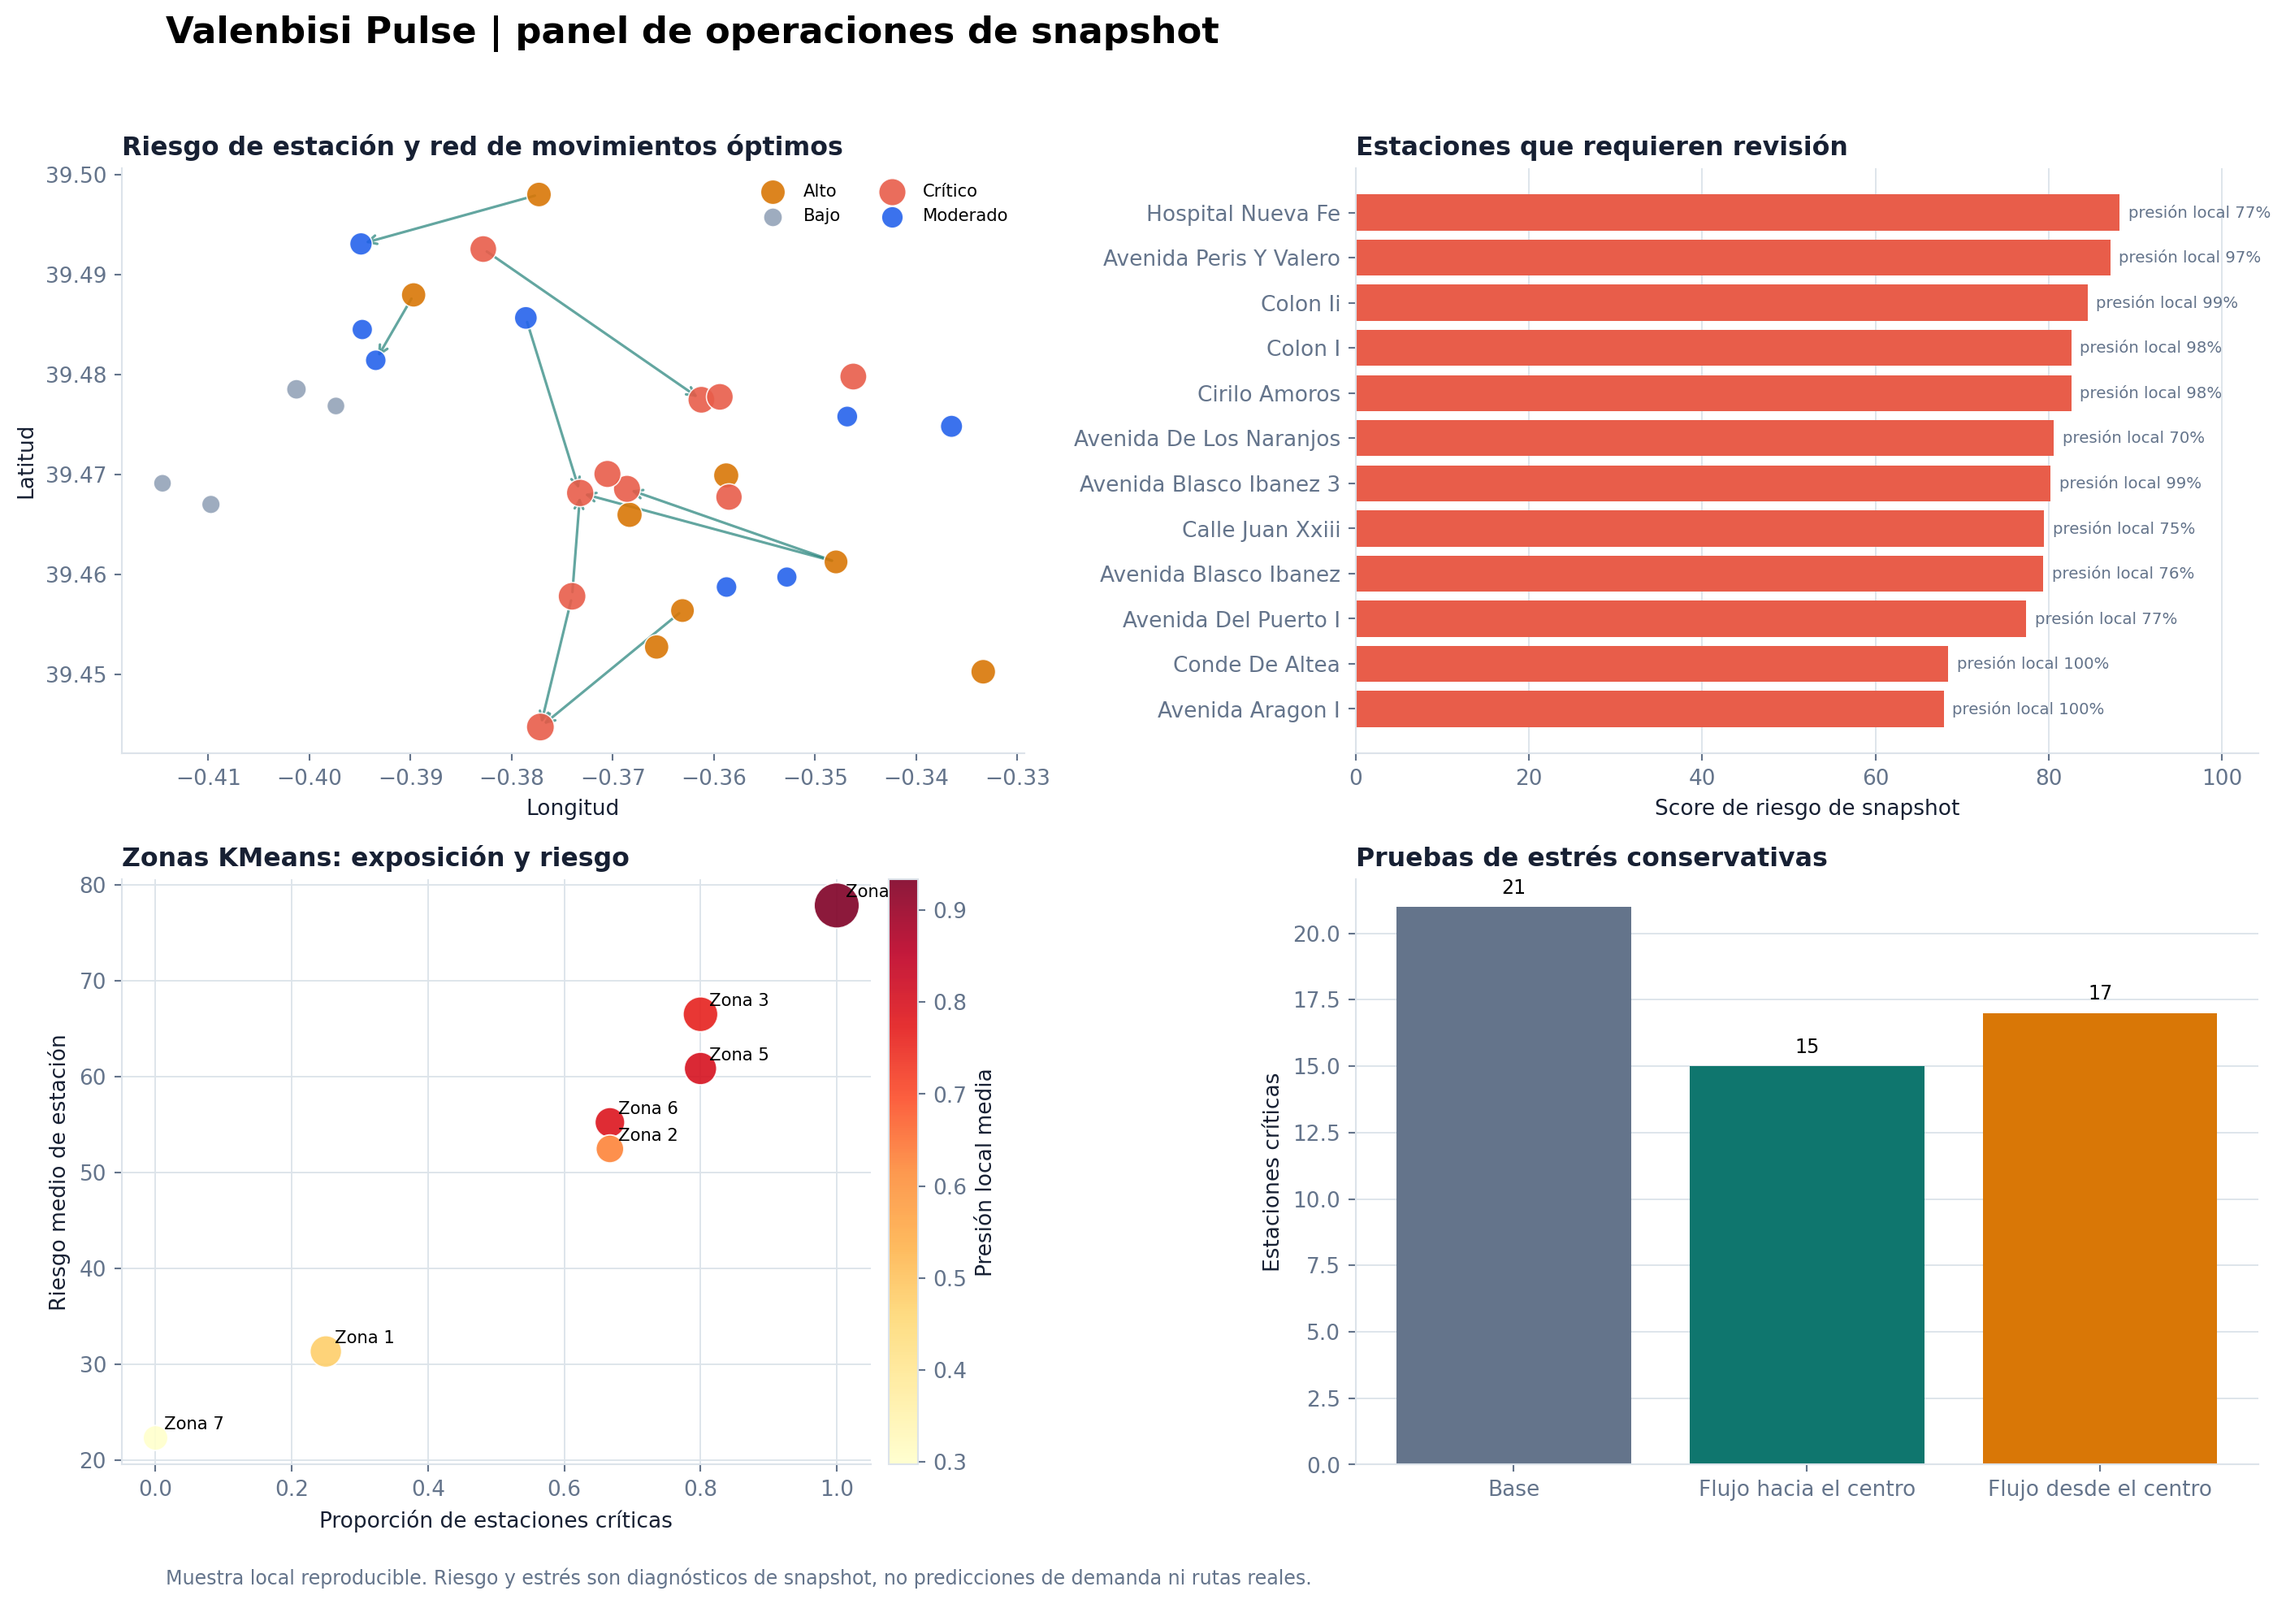
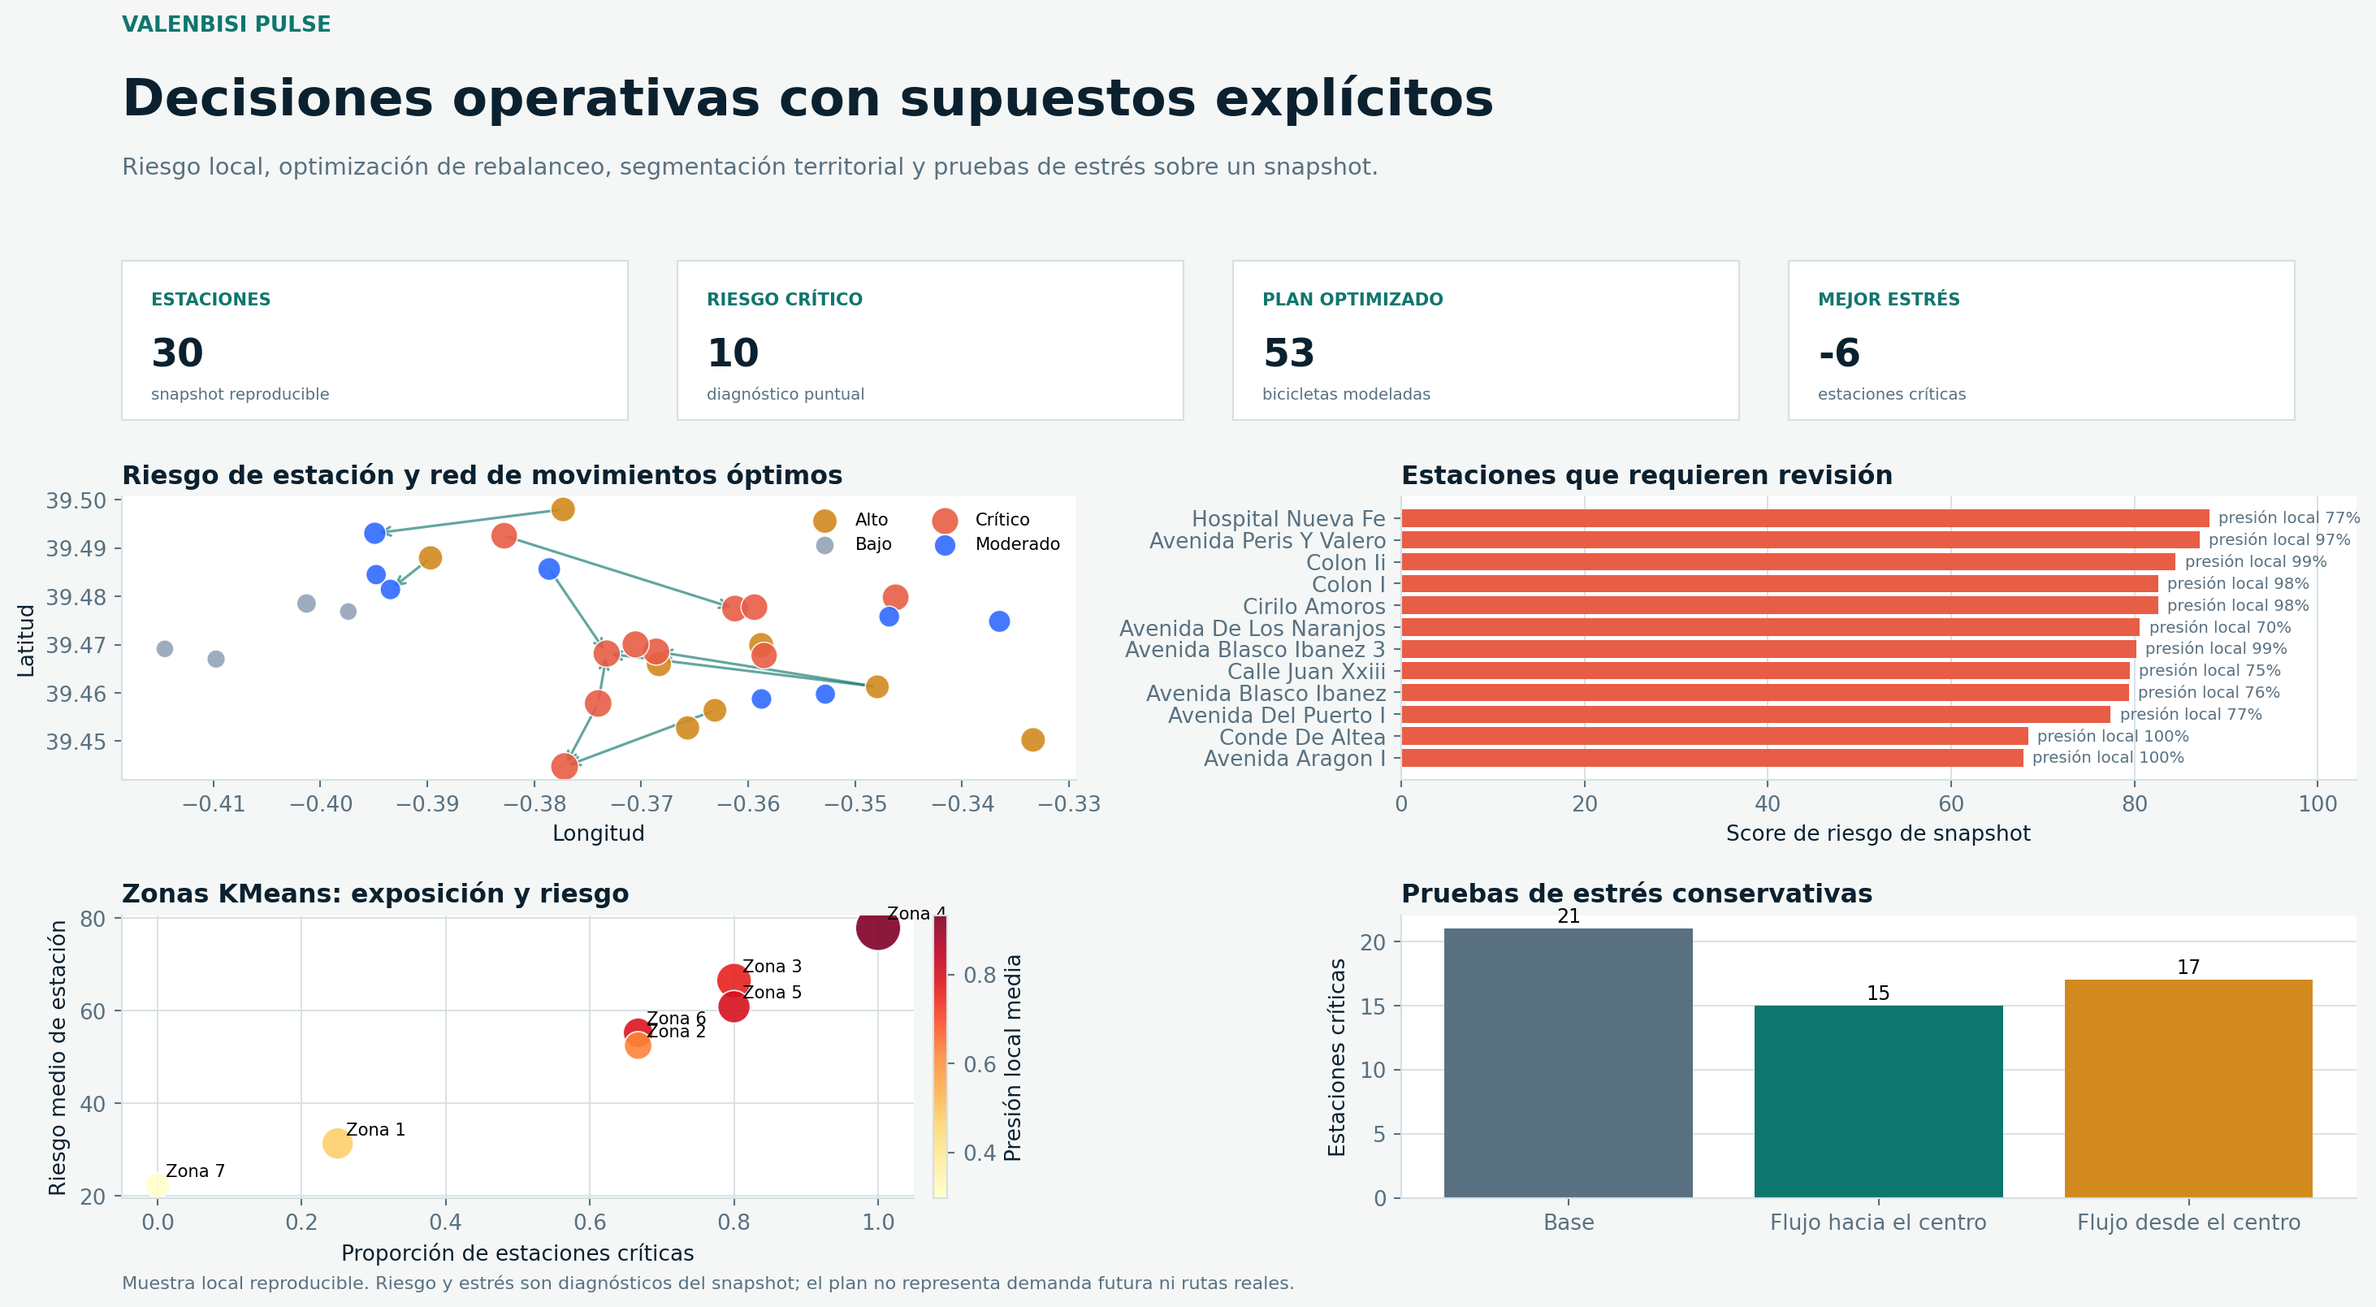
Upgrade mobility operations dashboard

diff --git a/src/reporting.py b/src/reporting.py
@@ -7,14 +7,16 @@ from pathlib import Path
 import matplotlib as mpl
 import matplotlib.pyplot as plt
 import pandas as pd
+from matplotlib.patches import Rectangle
 
-INK = "#172033"
-MUTED = "#64748B"
-GRID = "#DCE3EA"
+INK = "#0B2130"
+MUTED = "#597181"
+GRID = "#D6E0E5"
 TEAL = "#0F766E"
-CORAL = "#E85D4A"
-GOLD = "#D97706"
-BLUE = "#2563EB"
+CORAL = "#E85D45"
+GOLD = "#D28A1E"
+BLUE = "#2F6BFF"
+PAPER = "#F4F7F6"
 
 RISK_COLORS = {
     "bajo": "#94A3B8",
@@ -37,7 +39,7 @@ def _apply_style() -> None:
             "axes.edgecolor": GRID,
             "axes.spines.top": False,
             "axes.spines.right": False,
-            "figure.facecolor": "white",
+            "figure.facecolor": PAPER,
             "axes.facecolor": "white",
         }
     )
@@ -45,7 +47,7 @@ def _apply_style() -> None:
 
 def _save(fig: plt.Figure, directory: Path, filename: str) -> None:
     directory.mkdir(parents=True, exist_ok=True)
-    fig.savefig(directory / filename, dpi=190, bbox_inches="tight", facecolor="white")
+    fig.savefig(directory / filename, dpi=190, bbox_inches="tight", facecolor=fig.get_facecolor())
     plt.close(fig)
 
 
@@ -73,9 +75,23 @@ def plot_operations_dashboard(
     figure_dir: Path,
 ) -> None:
     _apply_style()
-    fig, axes = plt.subplots(2, 2, figsize=(15, 10.5))
+    fig = plt.figure(figsize=(16, 9), dpi=170, facecolor=PAPER)
+    grid = fig.add_gridspec(
+        2,
+        2,
+        left=0.065,
+        right=0.97,
+        top=0.61,
+        bottom=0.105,
+        hspace=0.48,
+        wspace=0.34,
+    )
+    axes = [
+        [fig.add_subplot(grid[0, 0]), fig.add_subplot(grid[0, 1])],
+        [fig.add_subplot(grid[1, 0]), fig.add_subplot(grid[1, 1])],
+    ]
 
-    ax = axes[0, 0]
+    ax = axes[0][0]
     _draw_plan_lines(ax, stations, plan)
     for risk_band, frame in stations.groupby("risk_band", observed=True):
         ax.scatter(
@@ -94,7 +110,7 @@ def plot_operations_dashboard(
     ax.set_ylabel("Latitud")
     ax.legend(frameon=False, ncol=2, fontsize=8)
 
-    ax = axes[0, 1]
+    ax = axes[0][1]
     top = stations.nlargest(12, "station_risk_score").sort_values("station_risk_score")
     bars = ax.barh(top["name"], top["station_risk_score"], color=CORAL)
     for bar, pressure in zip(bars, top["local_pressure"], strict=True):
@@ -112,7 +128,7 @@ def plot_operations_dashboard(
     ax.grid(axis="x", color=GRID, linewidth=0.7)
     ax.set_axisbelow(True)
 
-    ax = axes[1, 0]
+    ax = axes[1][0]
     scatter = ax.scatter(
         zones["critical_share"],
         zones["mean_station_risk"],
@@ -139,7 +155,7 @@ def plot_operations_dashboard(
     ax.grid(color=GRID, linewidth=0.7)
     ax.set_axisbelow(True)
 
-    ax = axes[1, 1]
+    ax = axes[1][1]
     display = stress_scenarios.copy()
     labels = ["Base", *display["scenario"].tolist()]
     critical_values = [
@@ -155,24 +171,63 @@ def plot_operations_dashboard(
     ax.grid(axis="y", color=GRID, linewidth=0.7)
     ax.set_axisbelow(True)
 
-    fig.suptitle(
-        "Valenbisi Pulse | panel de operaciones de snapshot",
-        x=0.075,
-        ha="left",
-        fontsize=17,
+    critical_count = int(stations["risk_band"].eq("crítico").sum())
+    bikes_to_move = int(plan["bikes_to_move"].sum()) if not plan.empty else 0
+    baseline_critical = int(display["baseline_critical_stations"].iloc[0])
+    best_critical = int(display["scenario_critical_stations"].min())
+    kpis = [
+        ("ESTACIONES", f"{len(stations)}", "snapshot reproducible"),
+        ("RIESGO CRÍTICO", f"{critical_count}", "diagnóstico puntual"),
+        ("PLAN OPTIMIZADO", f"{bikes_to_move}", "bicicletas modeladas"),
+        ("MEJOR ESTRÉS", f"-{baseline_critical - best_critical}", "estaciones críticas"),
+    ]
+    card_width = 0.205
+    for index, (label, value, note) in enumerate(kpis):
+        left = 0.065 + index * 0.225
+        fig.patches.append(
+            Rectangle(
+                (left, 0.665),
+                card_width,
+                0.115,
+                transform=fig.transFigure,
+                facecolor="white",
+                edgecolor=GRID,
+                linewidth=0.8,
+            )
+        )
+        fig.text(left + 0.012, 0.748, label, color=TEAL, fontsize=8, weight="bold")
+        fig.text(left + 0.012, 0.704, value, color=INK, fontsize=18, weight="bold")
+        fig.text(left + 0.012, 0.68, note, color=MUTED, fontsize=7.5)
+
+    fig.text(0.065, 0.945, "VALENBISI PULSE", color=TEAL, fontsize=10, weight="bold")
+    fig.text(
+        0.065,
+        0.885,
+        "Decisiones operativas con supuestos explícitos",
+        color=INK,
+        fontsize=24,
         weight="bold",
     )
     fig.text(
-        0.075,
-        0.012,
+        0.065,
+        0.842,
         (
-            "Muestra local reproducible. Riesgo y estrés son diagnósticos de snapshot, "
-            "no predicciones de demanda ni rutas reales."
+            "Riesgo local, optimización de rebalanceo, segmentación territorial "
+            "y pruebas de estrés sobre un snapshot."
         ),
         color=MUTED,
-        fontsize=9,
+        fontsize=11,
     )
-    fig.tight_layout(rect=(0, 0.03, 1, 0.96))
+    fig.text(
+        0.065,
+        0.04,
+        (
+            "Muestra local reproducible. Riesgo y estrés son diagnósticos del snapshot; "
+            "el plan no representa demanda futura ni rutas reales."
+        ),
+        color=MUTED,
+        fontsize=8.5,
+    )
     _save(fig, figure_dir, "operations_decision_dashboard.png")
 
 
